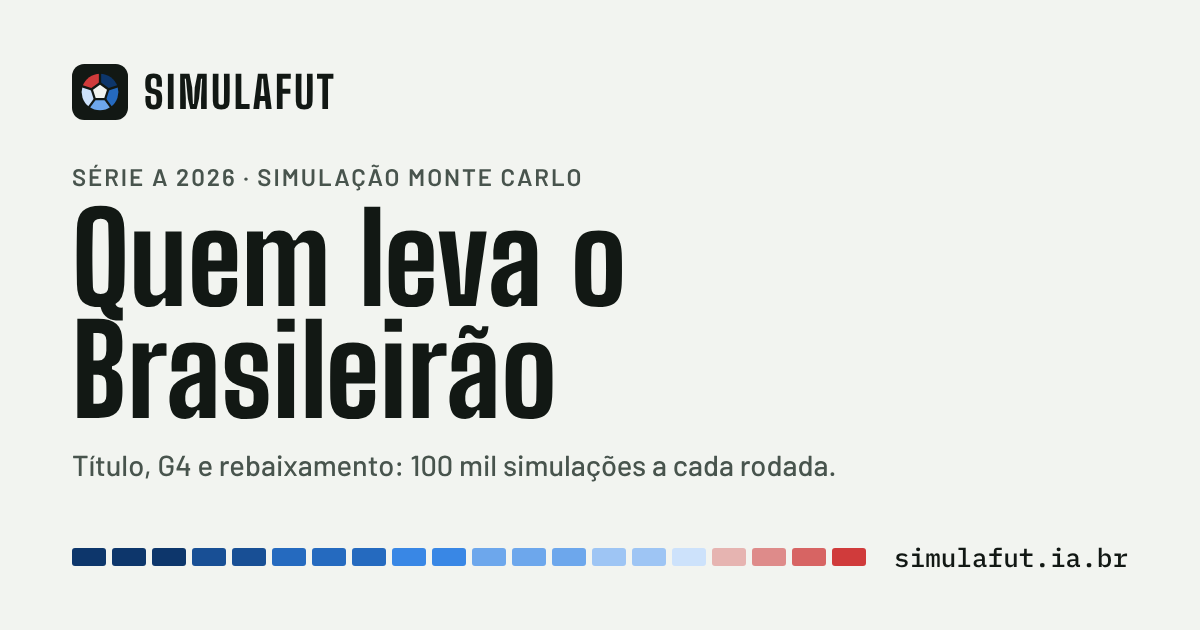
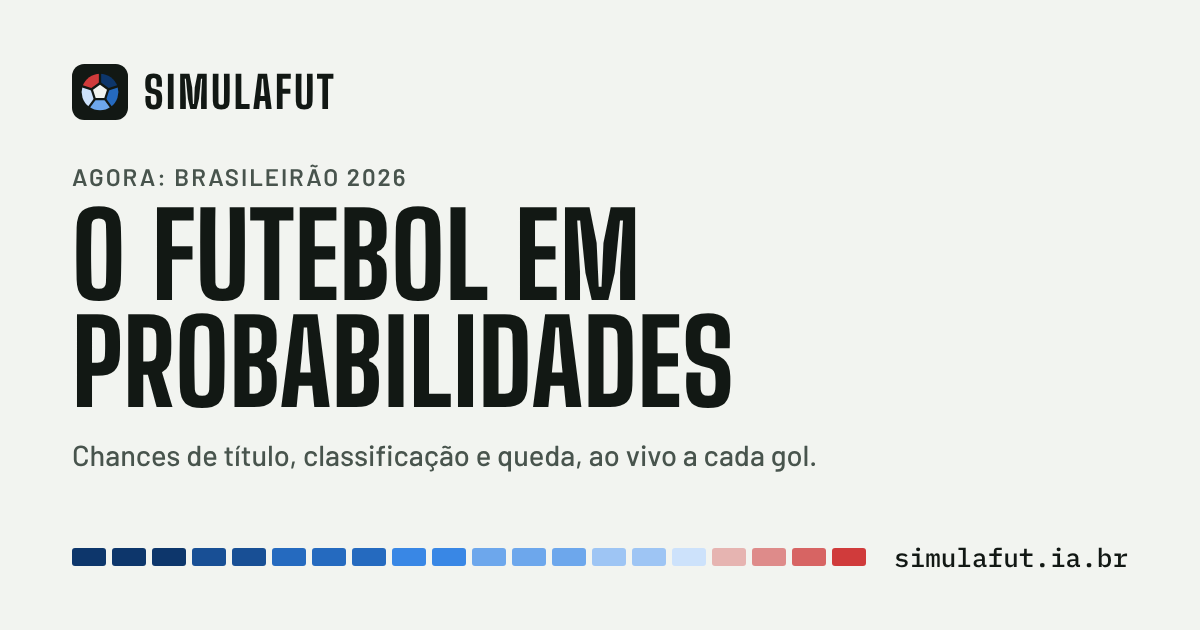
Título O futebol em probabilidades; seção Brasileirão 2026
Claude-Session: https://claude.ai/code/session_01JAEvz8dyJ8ZTXmCSp9M3N2

Changed region(s): [[0.0617, 0.3317, 0.6167, 0.6635], [0.0617, 0.6937, 0.7092, 0.754], [0.0617, 0.2413, 0.4933, 0.3016]]

diff --git a/index.html b/index.html
@@ -3,8 +3,8 @@
 <head>
 <meta charset="utf-8">
 <meta name="viewport" content="width=device-width, initial-scale=1, viewport-fit=cover">
-<title>Simulafut · Brasileirão 2026</title>
-<meta name="description" content="Chances de título, G4, G6 e rebaixamento de cada clube no Brasileirão 2026: 100 mil temporadas simuladas por um modelo testado em 20 temporadas passadas e atualizado ao vivo.">
+<title>Simulafut · O futebol em probabilidades</title>
+<meta name="description" content="O futebol em probabilidades. Agora: chances de título, G4 e rebaixamento no Brasileirão 2026, em 100 mil temporadas simuladas por um modelo testado em 20 temporadas passadas e atualizado ao vivo.">
 <link rel="canonical" href="https://simulafut.ia.br/">
 <link rel="icon" href="/favicon.svg" type="image/svg+xml">
 <link rel="apple-touch-icon" href="/apple-touch-icon.png">
@@ -14,12 +14,12 @@
 <meta property="og:site_name" content="Simulafut">
 <meta property="og:locale" content="pt_BR">
 <meta property="og:url" content="https://simulafut.ia.br/">
-<meta property="og:title" content="Quem leva o Brasileirão 2026?">
-<meta property="og:description" content="Chances de título, G4, G6 e rebaixamento de cada clube no Brasileirão 2026: 100 mil temporadas simuladas por um modelo testado em 20 temporadas passadas e atualizado ao vivo.">
+<meta property="og:title" content="Simulafut · O futebol em probabilidades">
+<meta property="og:description" content="O futebol em probabilidades. Agora: chances de título, G4 e rebaixamento no Brasileirão 2026, em 100 mil temporadas simuladas por um modelo testado em 20 temporadas passadas e atualizado ao vivo.">
 <meta property="og:image" content="https://simulafut.ia.br/og.png">
 <meta property="og:image:width" content="1200">
 <meta property="og:image:height" content="630">
-<meta property="og:image:alt" content="Simulafut: quem leva o Brasileirão">
+<meta property="og:image:alt" content="Simulafut: o futebol em probabilidades">
 <meta name="twitter:card" content="summary_large_image">
 <style>html, body { margin: 0; }</style>
 <script>window.SIMULAFUT_LIVE = true;</script>
@@ -336,6 +336,11 @@ footer .credit { font-size: 14px; font-weight: 600; color: var(--ink-2); }
 .sfold[open] .fold-ic::after { transform: rotate(0deg); }
 .sfold > summary:hover .fold-ic { background: var(--bg); }
 
+/* competition header: what the numbers below refer to */
+.comp-head { display: grid; gap: 2px; margin-top: -12px; margin-bottom: -22px; padding-top: 16px; border-top: 1px solid var(--rule-strong); }
+.comp-head h2 { font-size: clamp(1.6rem, 6vw, 2rem); }
+.comp-head p { font-family: var(--font-data); font-size: 12px; letter-spacing: .06em; text-transform: uppercase; color: var(--muted); }
+
 /* credibility row */
 .trust { list-style: none; margin: 0; padding: 0; display: flex; flex-wrap: wrap; gap: 6px 14px; }
 @media (max-width: 420px) { .trust { gap: 6px 10px; } .trust a { font-size: 12.5px; gap: 5px; } }
@@ -461,7 +466,7 @@ footer .credit { font-size: 14px; font-weight: 600; color: var(--ink-2); }
     <div class="bstrip" aria-hidden="true"><i style="background:#0d366b"></i><i style="background:#0d366b"></i><i style="background:#0d366b"></i><i style="background:#184f95"></i><i style="background:#184f95"></i><i style="background:#256abf"></i><i style="background:#256abf"></i><i style="background:#256abf"></i><i style="background:#3987e5"></i><i style="background:#3987e5"></i><i style="background:#6da7ec"></i><i style="background:#6da7ec"></i><i style="background:#9ec5f4"></i><i style="background:#9ec5f4"></i><i style="background:#cde2fb"></i><i style="background:#cde2fb"></i><i style="background:#d03b3b;opacity:.35"></i><i style="background:#d03b3b;opacity:.57"></i><i style="background:#d03b3b;opacity:.78"></i><i style="background:#d03b3b"></i></div>
   </div>
   <header class="top">
-    <h1>Quem leva o Brasileirão</h1>
+    <h1>O futebol em probabilidades</h1>
     <p class="lede" id="lede"></p>
     <ul class="trust" aria-label="Sobre o modelo">
       <li><a href="#metodo">Testado em 20 temporadas</a></li>
@@ -470,6 +475,11 @@ footer .credit { font-size: 14px; font-weight: 600; color: var(--ink-2); }
     </ul>
     <p class="status-line" id="status-line" role="status"><span class="sdot" aria-hidden="true"></span><span id="status-text"></span></p>
   </header>
+
+  <div class="comp-head">
+    <h2 id="comp-name">Brasileirão 2026</h2>
+    <p id="comp-sub"></p>
+  </div>
 
   <section class="live" id="live" hidden aria-labelledby="live-h">
    <details class="live-d" id="live-d">
@@ -1001,7 +1011,10 @@ function makeEngine(D) {
     const played = m.n_played + done, rem = m.n_rem - done - on;
     const counts = on ? `${nf0.format(played)} jogos disputados, ${on} em andamento e ${rem} a disputar.` : `${nf0.format(played)} jogos disputados e ${rem} a disputar.`;
     const sims = live.res ? nf0.format(SIMS) : nf0.format(D.models.xg.sims);
-    $('lede').textContent = `Chances de título, G4 e rebaixamento na Série A 2026, em ${sims} temporadas simuladas${live.res ? ' com os placares de agora' : ''}.`;
+    $('lede').textContent = 'Chances de título, classificação e queda, atualizadas ao vivo, a cada gol.';
+    const rr = D.fixtures.map(f => f.r).filter(r => r !== 21);
+    const rnd = rr.length ? Math.min(...rr) : null;
+    $('comp-sub').textContent = `Série A${rnd ? ` · Rodada ${rnd}` : ''}${live.res ? ' · ao vivo' : ''}`;
     $('foot').textContent = `Modelo ajustado com ${nf0.format(m.n_hist)} jogos da Série A (2003–2026). Atualização completa em ${m.label_short}.`;
   }
 

diff --git a/README.md b/README.md
@@ -1,6 +1,6 @@
 # Simulafut
 
-Chances de título, G4, G6 e rebaixamento no Brasileirão 2026, calculadas com 100 mil simulações de Monte Carlo e atualizadas depois de cada rodada.
+O futebol em probabilidades. Agora: chances de título, G4, G6 e rebaixamento no Brasileirão 2026, com 100 mil temporadas simuladas e atualização ao vivo.
 
 Site: https://simulafut.ia.br
 
